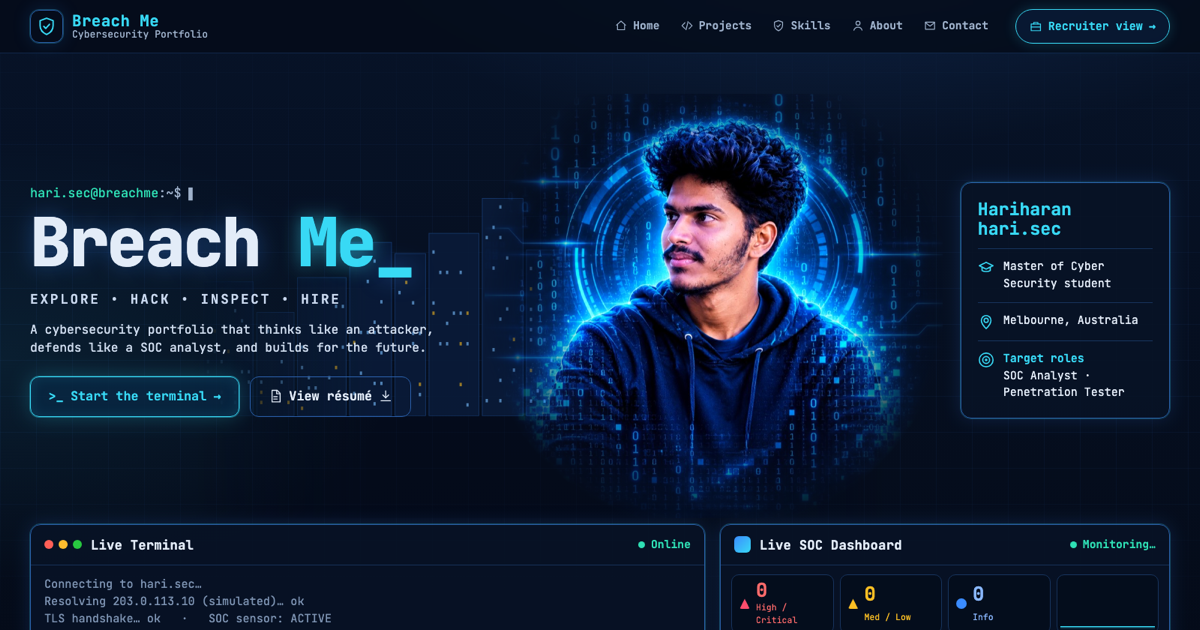
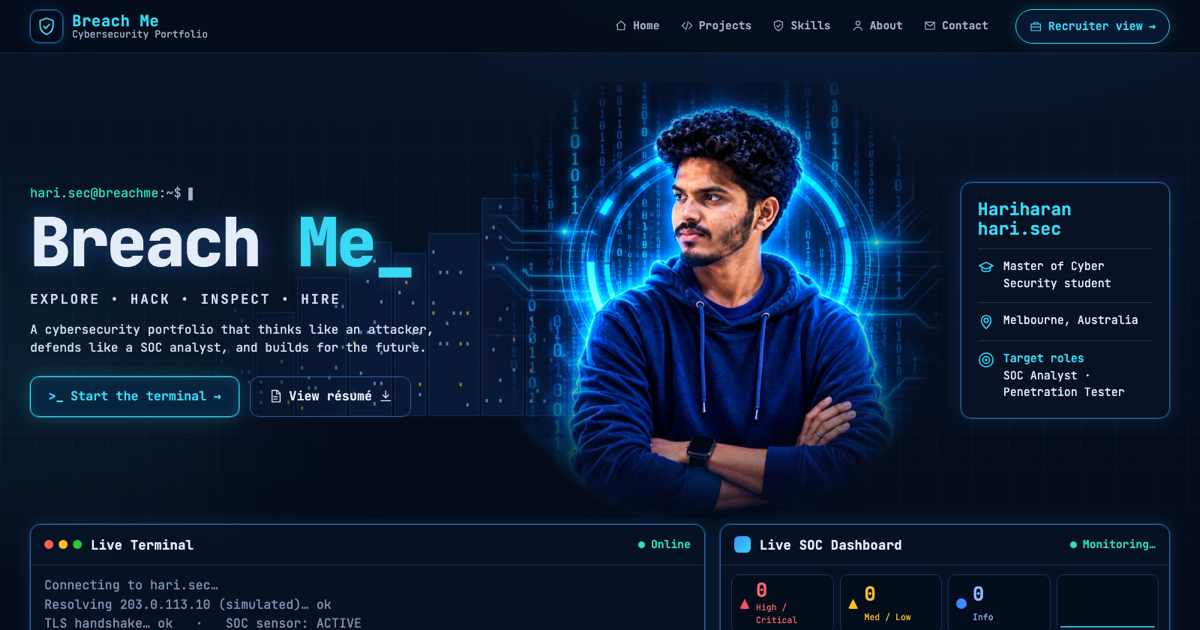
Update profile photo

Changed region(s): [[0.4008, 0.1508, 0.7708, 0.8143], [0.0308, 0.9048, 0.3083, 1.0]]

diff --git a/src/data/portfolio.ts b/src/data/portfolio.ts
@@ -57,7 +57,7 @@ export const portfolio: Portfolio = {
       showPhone: false,
     },
     resume: 'resume.pdf', // public/resume.pdf — replace the file to update it
-    photo: 'profile.jpg', // in /public — swap the file to change your portrait
+    photo: 'profile-2.jpg', // in /public — swap the file to change your portrait
   },
 
   services: [

diff --git a/src/ui/hero.ts b/src/ui/hero.ts
@@ -96,7 +96,7 @@ function portrait(): HTMLElement {
         src: asset(P.person.photo),
         alt: `Portrait of ${P.person.name}`,
         width: '900',
-        height: '846',
+        height: '869',
         decoding: 'async',
         fetchpriority: 'high',
       }),
